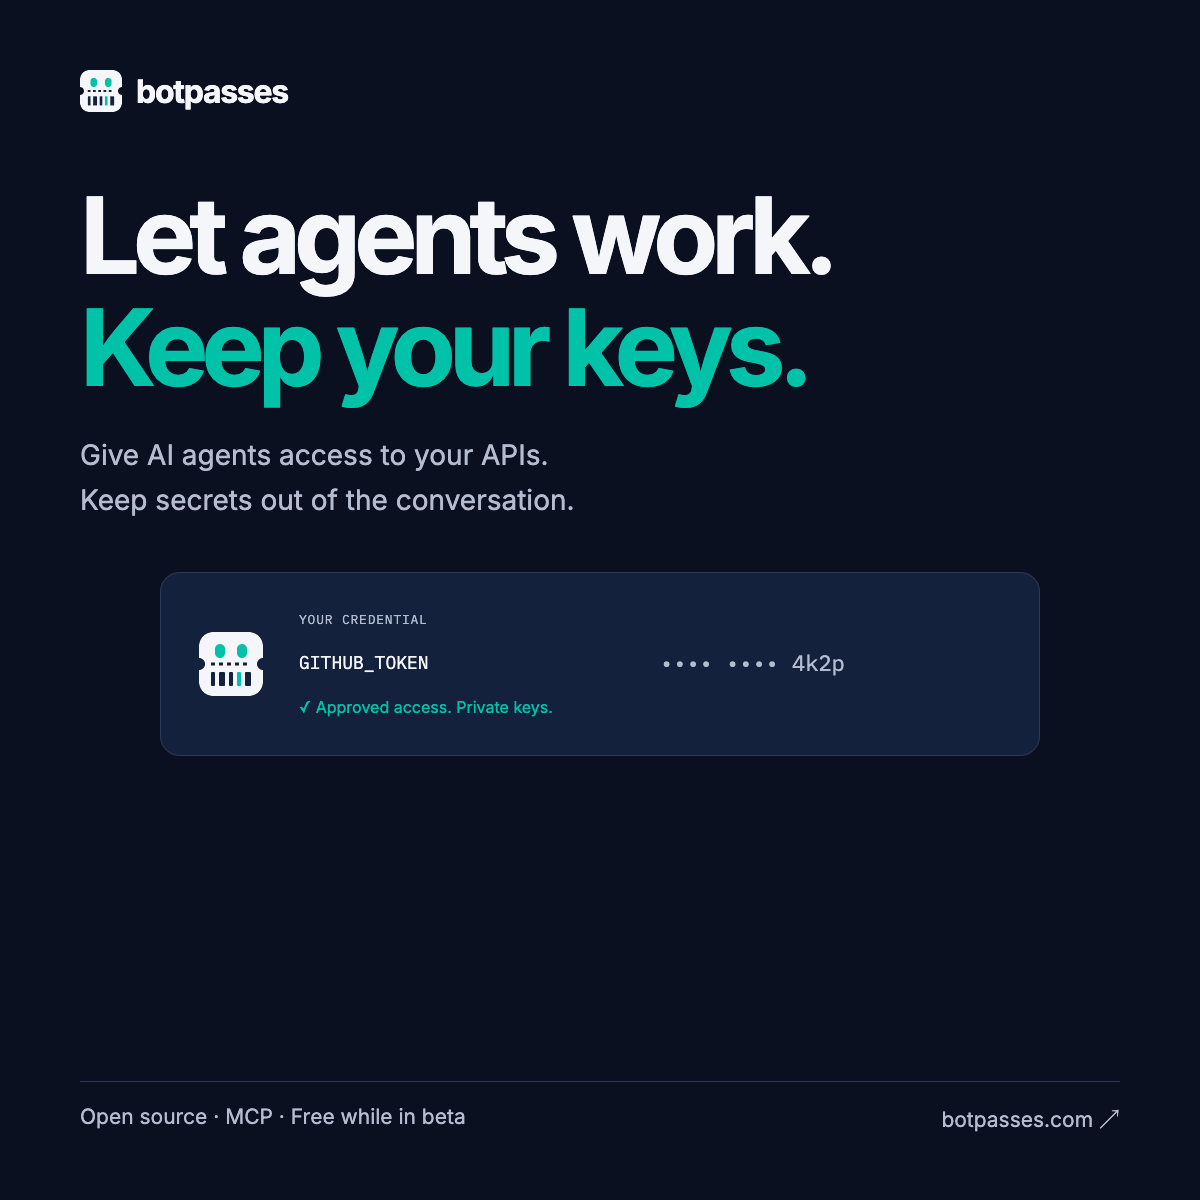
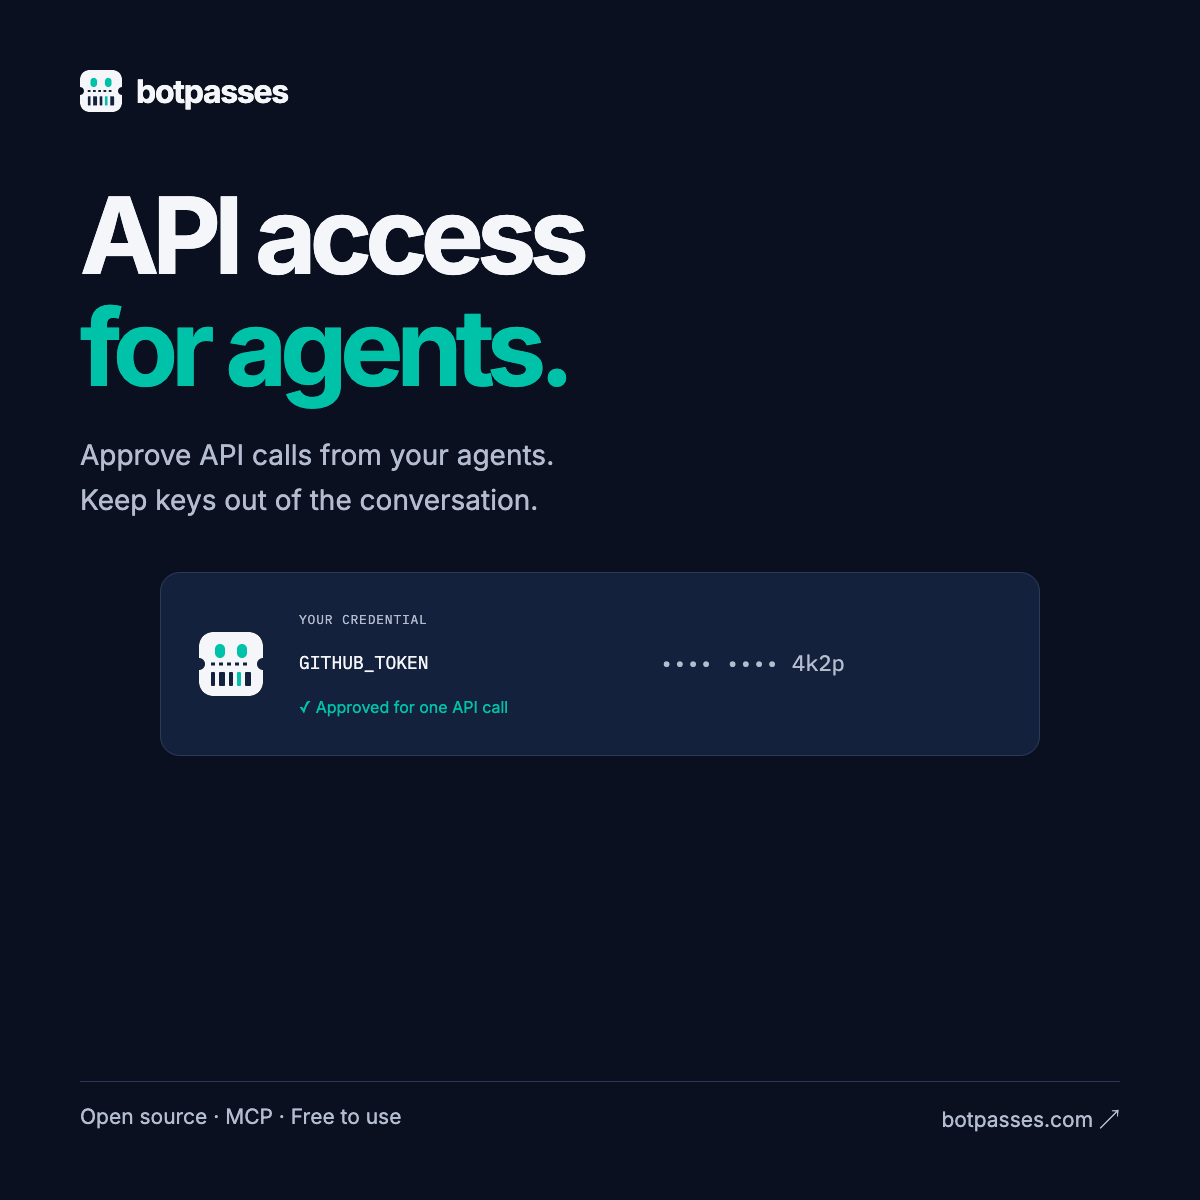
docs(site): clarify free use and simplify public copy
Remove beta pricing qualifiers from the site and console.
Explain hosted, local, and open-source self-hosting options.
Rewrite slogans and documentation introductions, regenerate social cards,
and update site assertions to cover the revised copy.

diff --git a/site/src/lib/site-meta.ts b/site/src/lib/site-meta.ts
@@ -6,11 +6,11 @@ export const GITHUB = "https://github.com/naffis/botpasses";
 export const SUPPORT_EMAIL = "support@botpasses.com";
 export const SECURITY_EMAIL = "security@botpasses.com";
 
-/** One-sentence product definition. Used as the default homepage description and in JSON-LD. */
+/** Product description shared by homepage metadata and JSON-LD. */
 export const PRODUCT_DESCRIPTION =
-  "Botpasses is a grant-vault for AI agents. Store an API key once. Claude, Cursor, ChatGPT, or Grok call the API over MCP; the key never enters the model, the chat, or the logs.";
+  "Botpasses lets AI agents call APIs with your approval while keeping keys out of their conversations. Free to use and open source. Use botpasses.com or host it yourself.";
 
-export const PRODUCT_TAGLINE = "Let agents work. Keep your keys.";
+export const PRODUCT_TAGLINE = "API access for agents.";
 
 export type JsonLd = Record<string, unknown>;
 
@@ -57,12 +57,12 @@ export function softwareApplicationLd(): JsonLd {
       "@type": "Offer",
       price: "0",
       priceCurrency: "USD",
-      description: "Free while in beta",
+      description: "Free to use",
     },
     featureList: [
       "Store a named API credential once",
       "MCP http_request attaches the key inside the vault",
-      "Operator approval before each inject",
+      "Check agent approval before each API call",
       "No get_secret tool",
       "Open source, MIT licensed",
     ],
@@ -77,7 +77,7 @@ export function definedTermLd(): JsonLd {
     "@type": "DefinedTerm",
     name: "grant-vault",
     description:
-      "A vault that decrypts a credential only at an approved inject, to attach it to an outbound API call. The model does not get the key. Not zero-knowledge.",
+      "A vault that checks an agent’s approval before attaching a stored credential to its API request. The model does not get the key. The vault process can decrypt credentials; it is not zero-knowledge.",
     url: `${SITE_URL}/docs/explanation/why-the-model-never-sees-the-value`,
     inDefinedTermSet: {
       "@type": "DefinedTermSet",

diff --git a/test/site-content.test.ts b/test/site-content.test.ts
@@ -58,13 +58,19 @@ const REQUIRED_PAGES = [
 ];
 
 test("site dist has every documented URL", () => {
-  for (const rel of REQUIRED_PAGES) assert.ok(existsSync(join(dist, rel)), rel);
+  for (const rel of REQUIRED_PAGES) {
+    assert.ok(existsSync(join(dist, rel)), rel);
+    assert.doesNotMatch(page(rel), /free while in beta/i, rel);
+  }
+  for (const rel of ["llms.txt", "llms-full.txt"]) {
+    assert.doesNotMatch(page(rel), /free while in beta/i, rel);
+  }
 });
 
 test("homepage sells the product and links the right places", () => {
   const home = page("index.html");
   const heading = /<h1\b[^>]*>([\s\S]*?)<\/h1>/.exec(home)?.[1] ?? "";
-  assert.match(text(heading), /Let agents work\.\s*Keep your keys\./);
+  assert.match(text(heading), /API access\s*for agents\./);
   assert.match(home, /data-access-demo/);
   assert.match(home, /INTERACTIVE EXAMPLE/);
   assert.match(home, /data-demo-approve/);
@@ -79,14 +85,14 @@ test("homepage sells the product and links the right places", () => {
   for (const href of ["/sign-up", "/sign-in", "/security", "/docs/start", "#how", "#get-started"]) {
     assert.ok(home.includes(`href="${href}"`), href);
   }
-  assert.match(home, /grant-vault, not zero-knowledge/);
+  assert.match(home, /Botpasses is not zero-knowledge/);
   assert.match(home, /The model does not get the key/);
   assert.match(home, /get_secret/);
   assert.match(home, /github\.com\/naffis\/botpasses/);
-  assert.match(home, /Free while in beta/);
+  assert.match(home, /Free to use/);
   assert.match(text(home), /npm run hosted:dev/);
   assert.match(home, /Can I run Botpasses on my laptop\?/);
-  assert.match(home, /Botpasses is a grant-vault for AI agents/);
+  assert.match(home, /Botpasses stores API keys/);
   assert.match(home, /What is Botpasses\?/);
   assert.match(home, /Is this a password manager\?/);
   assert.match(home, /prompt-injected/);

diff --git a/site/src/lib/llms-txt.ts b/site/src/lib/llms-txt.ts
@@ -2,7 +2,7 @@ import { groupBySection, sortDocs, toNavItems, type DocEntry } from "./docs-nav.
 import { GITHUB, SITE_URL } from "./site-meta.ts";
 
 const QUOTE =
-  "Botpasses is a grant-vault for AI agents. You store an API key once. An agent (Claude, Cursor, ChatGPT, Grok, or any MCP client) calls the API through Botpasses over MCP; the key is attached inside the vault and does not enter the chat, the model, or the logs. Grant-vault, not zero-knowledge: the hosted process decrypts only at an approved inject.";
+  "Botpasses stores API keys and lets your agents call APIs over MCP with your approval. It attaches the key to approved requests and removes secrets from responses before returning them to the agent. The hosted process decrypts keys in memory; Botpasses is not zero-knowledge.";
 
 const MCP_LINE =
   "MCP endpoint: https://botpasses.com/mcp (OAuth 2.1 with PKCE and dynamic client registration on botpasses.com, or a console-issued bearer token). Primary tool: http_request. Also find_items, list_items, request_grant, list_grants, setup. There is no get_secret.";
@@ -22,7 +22,7 @@ export function renderLlmsIndex(docs: DocEntry[]): string {
     "- Not a password manager. Credentials are for agents, not browser autofill.",
     "- Not zero-knowledge. The hosted process decrypts at inject. Staff need both the AWS KMS role and the database.",
     "- Hosted at https://botpasses.com. Staging at https://staging.botpasses.com has its own accounts.",
-    "- MIT licensed. Free while in beta. Source: https://github.com/naffis/botpasses",
+    "- Free to use and open source under the MIT license. You can self-host. Source: https://github.com/naffis/botpasses",
     "",
     "## Docs",
     "",

diff --git a/site/src/styles/home.css b/site/src/styles/home.css
@@ -7,7 +7,7 @@
 .home .btn { border-radius: 8px; padding: .8rem 1.2rem; gap: 1rem; }
 .home .eyebrow { font: 600 .72rem/1.5 var(--font-body); letter-spacing: .12em; text-transform: uppercase; color: var(--accent); }
 .home-hero { display: grid; grid-template-columns: 1.04fr 1fr; align-items: center; gap: 3.5rem; padding: 3.5rem 0 4.5rem; }
-.beta-link { display: inline-flex; align-items: center; gap: .6rem; color: var(--muted); font-size: .75rem; text-decoration: none; border: 1px solid var(--line); border-radius: 100px; padding: .4rem .75rem; }
+.availability-link { display: inline-flex; align-items: center; gap: .6rem; color: var(--muted); font-size: .75rem; text-decoration: none; border: 1px solid var(--line); border-radius: 100px; padding: .4rem .75rem; }
 .status-dot { display: inline-block; width: 6px; height: 6px; flex: 0 0 6px; border-radius: 50%; background: var(--accent); }
 .home-hero h1 { font-size: clamp(2.8rem, 4.6vw, 4.3rem); line-height: 1.04; letter-spacing: -.065em; margin: 1.5rem 0; }
 .home-hero h1 > span { color: var(--accent); }

diff --git a/src/hosted/operator-page.ts b/src/hosted/operator-page.ts
@@ -46,7 +46,7 @@ export function teamPanelHtml(): string {
 export function planCardHtml(): string {
   return `<div class="card" id="plan-card" data-testid="plan-card">
             <h2>Plan</h2>
-            <p class="hint">Free while in beta. <span id="plan-period"></span></p>
+            <p class="hint">Free to use. <span id="plan-period"></span></p>
             <dl class="facts">
               <dt>Credentials</dt><dd id="plan-credentials">Loading</dd>
               <dt>Agents</dt><dd id="plan-agents">Loading</dd>

diff --git a/test/hosted-site.test.ts b/test/hosted-site.test.ts
@@ -41,7 +41,7 @@ test("AC-01 fixture dist GET / is marketing", async () => {
     const res = await fetch(`${ctx.base}/`);
     const html = await res.text();
     assert.equal(res.status, 200);
-    assert.match(html, /id="hero-title">Let agents work\./);
+    assert.match(html, /id="hero-title">API access/);
     assert.match(html, /data-access-demo/);
     assert.match(html, /href="\/sign-up"/);
     assert.match(html, /href="\/sign-in"/);

diff --git a/site/src/content/docs/faq.md b/site/src/content/docs/faq.md
@@ -7,7 +7,7 @@ order: 2
 
 ## What is Botpasses?
 
-Botpasses is a grant-vault for AI agents. You store an API key once. An agent asks to call an API. You approve. Botpasses attaches the key inside the vault, makes the call, and returns a redacted result. The model does not get the key. There is no `get_secret`.
+Botpasses stores API keys and lets your agents use them with your approval. It attaches the key to each approved API call and removes secrets from the response. The model does not get the key. There is no `get_secret` tool.
 
 ## Is this a password manager?
 
@@ -15,7 +15,7 @@ No. Password managers hold secrets for people and fill them into browsers. Botpa
 
 ## What if the agent is prompt-injected?
 
-The agent still cannot read a value, because no tool returns one. What it can do is call APIs it has an approval for. Limit that: use `prompt` approvals (one call each) for anything sensitive, keep allowed hosts tight, and revoke standing approvals when a task is done. Everything the agent does is in the Access activity log by agent name and credential name.
+The agent still cannot read a value, because no tool returns one. What it can do is call APIs it has an approval for. Limit that: use `prompt` approvals (one call each) for anything sensitive, keep allowed hosts tight, and revoke standing approvals when a task is done. Each API call is in the Access activity log by agent name and credential name.
 
 ## What do you log?
 
@@ -27,15 +27,15 @@ Console **Access** panel. Revoke an agent (its tokens stop working on the next c
 
 ## What is the difference between staging and production?
 
-Two things share those words. Inside your account, each credential has an **environment** tag (`staging` or `production`) and each agent is bound to one of them; an agent only sees credentials in its own environment. Separately, `staging.botpasses.com` is the pre-release copy of the service with its own accounts and database; use `botpasses.com` unless you are testing the service itself. The laptop hosted kernel (`npm run hosted:dev`) is a third deploy plane. It is not a Fly app and it is refused when `FLY_APP_NAME` is set.
+Inside your account, each credential has an **environment** tag (`staging` or `production`) and each agent is bound to one of them; an agent only sees credentials in its own environment. Separately, `staging.botpasses.com` is the pre-release copy of the service with its own accounts and database; use `botpasses.com` unless you are testing the service itself. The laptop hosted kernel (`npm run hosted:dev`) is a third deploy plane. It is not a Fly app and it is refused when `FLY_APP_NAME` is set.
 
 ## Can Botpasses staff read my keys?
 
-Not without both the AWS KMS role and the database. The hosted process decrypts a value only at inject, inside memory, to attach it to your API call. There is no support tool that reveals a value. Botpasses is a grant-vault, not zero-knowledge; the honest version of this answer is on the [Security](/security) page.
+Anyone with both the AWS KMS role and the database can decrypt your keys. The hosted process decrypts them in memory when making approved calls. Staff have no support tool that reveals a key. Botpasses is not zero-knowledge. See the [Security](/security) page.
 
 ## What does it cost?
 
-Free while in beta. The software is MIT licensed. [Self-host](/docs/self-hosting) on any Postgres 16 and an `https` origin you control, or run `npm run hosted:dev` on a laptop.
+Botpasses is free to use and open source under the MIT license. Use [botpasses.com](/sign-up), [self-host](/docs/self-hosting) with Postgres 16 and your own domain, or run it on your laptop with `npm run hosted:dev`.
 
 ## Which agents work?
 
@@ -43,11 +43,11 @@ Claude (web, desktop, and Claude Code), Cursor, ChatGPT, Grok, and any MCP clien
 
 ## How is this different from putting keys in .env or the system prompt?
 
-A key in `.env` or a prompt is visible to the model, the transcript, and anyone who can read the chat or the repo. Botpasses never returns a value to the model. The agent asks for a call by host; you approve; the vault attaches the key on the way out.
+A key pasted into a prompt enters the conversation. A key in `.env` can be exposed if an agent reads the file or prints its environment. Botpasses does not return the stored key to the model. It checks the agent’s approval and attaches the key to the API request.
 
 ## How is this different from Composio or Arcade?
 
-Those products give the agent a catalog of tools and hold the tokens themselves. Botpasses is the opposite shape: you keep the credential, the agent keeps MCP `http_request`, and Botpasses attaches the key only after you approve. We do not wrap Stripe or GitHub as first-party tools.
+Those products give the agent a catalog of tools and hold the tokens themselves. With Botpasses, you store the credential and the agent calls MCP `http_request`. Botpasses attaches the key after checking your approval. We do not wrap Stripe or GitHub as first-party tools.
 
 ## Where is the source?
 
@@ -55,7 +55,7 @@ Those products give the agent a catalog of tools and hold the tokens themselves.
 
 ## Can I run Botpasses on my laptop?
 
-Yes. Two paths, and they are not the same process.
+Yes. Choose a local console or a CLI vault:
 
 - **Hosted kernel on loopback.** From a clone, `npm run hosted:dev` starts the same console, email codes (printed in the terminal), and MCP as botpasses.com, on `http://127.0.0.1:8788`. Connect MCP to `http://127.0.0.1:8788/mcp`. Provider apps get `http://127.0.0.1:8788/connect/callback`, not port 8888. Run one process per sqlite file.
 - **CLI vault.** `vault init` under `VAULT_HOME`, then `vault mcp`. No account. The CLI vault callback stays `http://127.0.0.1:8888/callback`.

diff --git a/CHANGELOG.md b/CHANGELOG.md
@@ -15,7 +15,7 @@
 - Fixed: unauthenticated `POST /mcp` `initialize`, `ping`, and `tools/list` are 401 with the same `WWW-Authenticate` `resource_metadata` and `scope="mcp"` as `GET /mcp` and `tools/call`. Grok Bot's AuthenticateMcpServer builds the Authorize browser URL from that first JSON-RPC 401; a 200 handshake left `needsAuth` with `no_auth_link` (Authorize spun, then Retry, no browser) after PR #15 put the challenge on GET only (BOTP-13). A preconfigured `avm_` Bearer still skips the card. Cursor desktop OAuth and DCR (including `grokbot://` and `https://www.cursor.com/agents/mcp/oauth/callback`) are unchanged.
 - Added: `npm run hosted:dev` boots the hosted kernel on loopback with sqlite-hosted (or `--postgres` / `VAULT_HOSTED_DEV_DATABASE_URL`). Secrets land in gitignored `.botpasses-hosted/secrets.json` (mode `0600`). OTP codes print in the terminal, not in structured logs. Plane `dev` binds `127.0.0.1` when `VAULT_BIND_HOST` is unset and is refused when `FLY_APP_NAME` is set. Run one process per sqlite file; a second writer can get SQLITE_BUSY. Self-host accepts any Postgres 16 URL and a custom `https` origin; first-party staging/production still pin botpasses.com. Hosted connect on loopback is `{origin}/connect/callback`; the CLI vault callback stays `http://127.0.0.1:8888/callback`.
 - Fixed: link previews and other cross-origin fetches can load the public site icons and social cards. A foreign `Origin` on GET/HEAD/OPTIONS of marketing and discovery URLs (`/og.png`, `/logo.png`, `/favicon.ico`, and the rest of the public site) is 200 and reflects `Access-Control-Allow-Origin`. `/api`, `/console`, `/collect`, and auth pages still 403 that Origin with no allow header. The Host allowlist is unchanged.
-- Fixed: docs code highlighting uses the brand tokens (navy, muted, teal, and the other tested pair colours). A GitHub Shiki theme used to paint its own hex on the light elevated background, so the self-hosting copy-paste prompt was unreadable. Light and dark pages now follow the same contrast contract as the rest of the site.
+- Fixed: docs code blocks use the brand tokens (navy, muted, teal, and the other tested pair colours). A GitHub Shiki theme used to paint its own hex on the light elevated background, so the self-hosting copy-paste prompt was unreadable. Light and dark pages now follow the same contrast contract as the rest of the site.
 - Site: copy-paste bootstrap prompts on the homepage and `/docs/prompts` so an agent can set up hosted MCP, a local laptop vault, or a self-hosted plane. Start, Guided setup, Install, Self-hosting, and the connect pages link them. You type secrets on Botpasses, never in chat.
 - Fixed: MCP OAuth dynamic client registration accepts RFC 8252 loopback `http://localhost:<port>/…` as well as `127.0.0.1` and `[::1]`. Cursor (and other hosts) register `http://localhost:8787/callback` in the same DCR set as `cursor://…` and `https://www.cursor.com/agents/mcp/oauth/callback`; rejecting localhost used to fail the whole registration with `redirect_uri must be https, loopback http…`. The `avm_` Bearer path is unchanged. `javascript:`, `data:`, `file:`, and `http` to a non-loopback host are still refused.
 - Fixed: an unauthenticated `GET /mcp` (SSE listen) is 401 with `WWW-Authenticate` `resource_metadata`, same as `POST /mcp` `tools/call`. Streamable HTTP hosts open that stream after `initialize`; without the challenge they showed Authorize → Retry and never opened the browser (BOTP-13). DCR accepts the `grokbot:` desktop scheme and logs `dcr_redirect_rejected` with scheme and reason only. Grok Bot still needed a 401 on `initialize` itself (see the handshake fix above).

diff --git a/site/src/content/docs/explanation/why-the-model-never-sees-the-value.md b/site/src/content/docs/explanation/why-the-model-never-sees-the-value.md
@@ -28,11 +28,11 @@ The point where the plaintext leaves the vault is called **inject**. On the host
 
 No MCP tool, HTTP route, CLI command, console screen, email, or audit row returns a stored value. `get_secret` does not exist. Support staff do not have a decrypt tool. Tests in the repository store a canary value and fail if it appears in any MCP result, REST model payload, Inbox JSON, email, collect page, or audit entry.
 
-## Not zero-knowledge, and why we say so
+## Who can decrypt your keys
 
 Password managers for people encrypt in the client so the vendor cannot read what you store. Botpasses cannot make that claim: to attach a key to a request, the hosted process has to decrypt it. The parties that can decrypt are the hosted process at inject, and anyone who holds both the AWS KMS role and the database. The model, the chat transcript, logs, and staff without both of those cannot.
 
-We think an honest "grant-vault" is more useful to you than a false "zero-knowledge". The decision is recorded in [ADR 0006](https://github.com/naffis/botpasses/blob/dev/docs/adr/0006-grant-vault-trust-model.md) and the full table of who sees what is on the [Security](/security) page.
+The design decision is recorded in [ADR 0006](https://github.com/naffis/botpasses/blob/dev/docs/adr/0006-grant-vault-trust-model.md) and the table of which systems can access credentials is on the [Security](/security) page.
 
 ## What this does not protect against
 

diff --git a/site/src/content/docs/self-hosting.md b/site/src/content/docs/self-hosting.md
@@ -9,9 +9,9 @@ The hosted process is one Node.js service. The runtime contract is a Postgres 16
 
 For a laptop hosted kernel (loopback, sqlite-hosted, OTP printed in the terminal) run `npm run hosted:dev`. That sets `VAULT_DEPLOY_PLANE=dev` and does not inherit a leftover `DATABASE_URL`. Run one process per sqlite file; a second writer can get SQLITE_BUSY. Do not set plane `dev` on Fly.
 
-This page names what you need. The operational runbooks live in the repository under `docs/ops` ([cutover](https://github.com/naffis/botpasses/blob/dev/docs/ops/botpasses-cutover.md), [KEK rotation](https://github.com/naffis/botpasses/blob/dev/docs/ops/kek-rotation.md), [restore](https://github.com/naffis/botpasses/blob/dev/docs/ops/restore.md)).
+The operational runbooks are in the repository under `docs/ops` ([cutover](https://github.com/naffis/botpasses/blob/dev/docs/ops/botpasses-cutover.md), [KEK rotation](https://github.com/naffis/botpasses/blob/dev/docs/ops/kek-rotation.md), [restore](https://github.com/naffis/botpasses/blob/dev/docs/ops/restore.md)).
 
-Paste the [self-host prompt](/docs/prompts#self-host) into an ops agent so it follows this page and `docs/ops` instead of inventing steps. Do not paste secret values into chat.
+Paste the [self-host prompt](/docs/prompts#self-host) into an ops agent for help with the configuration on this page and the runbooks in `docs/ops`. Do not paste secret values into chat.
 
 ## Copy-paste prompt
 

diff --git a/site/src/content/docs/connect/claude.md b/site/src/content/docs/connect/claude.md
@@ -27,7 +27,7 @@ Ask for the task in plain language: "check my Stripe balance" or "get my Spotify
 - If the credential needs your approval, Claude shows an 8-digit code and asks you to approve in the [console](/console) Inbox or with the code. Approve, then tell Claude to retry (or it retries on its own).
 - If nothing is stored for that API, Claude gives you a `collect_url`. Open it, sign in, and type the key on botpasses.com. Do not paste it into the chat.
 
-After the connector is on, paste a [hosted bootstrap prompt](/docs/prompts#hosted) so Claude walks Collect and Connect. You type secrets on the Botpasses plane you connected, never in chat. For a laptop CLI vault, use the [local prompt](/docs/prompts#local). The laptop hosted kernel is `npm run hosted:dev` at `http://127.0.0.1:8788/mcp`; provider apps get `http://127.0.0.1:8788/connect/callback`. See [Install](/docs/install).
+After the connector is on, paste a [hosted bootstrap prompt](/docs/prompts#hosted) for help storing credentials and connecting API accounts. Enter secrets on the Botpasses site you connected to. Do not paste them into chat. For a laptop CLI vault, use the [local prompt](/docs/prompts#local). The laptop hosted kernel is `npm run hosted:dev` at `http://127.0.0.1:8788/mcp`; provider apps get `http://127.0.0.1:8788/connect/callback`. See [Install](/docs/install).
 
 ## What Claude can and cannot do
 

diff --git a/site/src/content/docs/connect/cursor.md b/site/src/content/docs/connect/cursor.md
@@ -34,7 +34,7 @@ The server shows its tools once connected. Do not paste an operator token or any
 
 Ask the agent for the task in plain language. It calls `http_request`. Pending approvals show an 8-digit code you approve in the [console](/console) Inbox. A missing credential returns a `collect_url` to open in a browser.
 
-After MCP is connected, paste a [hosted bootstrap prompt](/docs/prompts#hosted) so the agent walks Collect and Connect. You type secrets on the Botpasses plane you connected, never in chat. For a laptop CLI vault (`VAULT_HOME`), use the [local prompt](/docs/prompts#local). To run the hosted kernel on this laptop, `npm run hosted:dev` and point Cursor at `http://127.0.0.1:8788/mcp`; provider apps get `http://127.0.0.1:8788/connect/callback`. See [Install](/docs/install).
+After MCP is connected, paste a [hosted bootstrap prompt](/docs/prompts#hosted) for help storing credentials and connecting API accounts. Enter secrets on the Botpasses site you connected to. Do not paste them into chat. For a laptop CLI vault (`VAULT_HOME`), use the [local prompt](/docs/prompts#local). To run the hosted kernel on this laptop, `npm run hosted:dev` and point Cursor at `http://127.0.0.1:8788/mcp`; provider apps get `http://127.0.0.1:8788/connect/callback`. See [Install](/docs/install).
 
 ## Stdio (local vault, no account)
 
